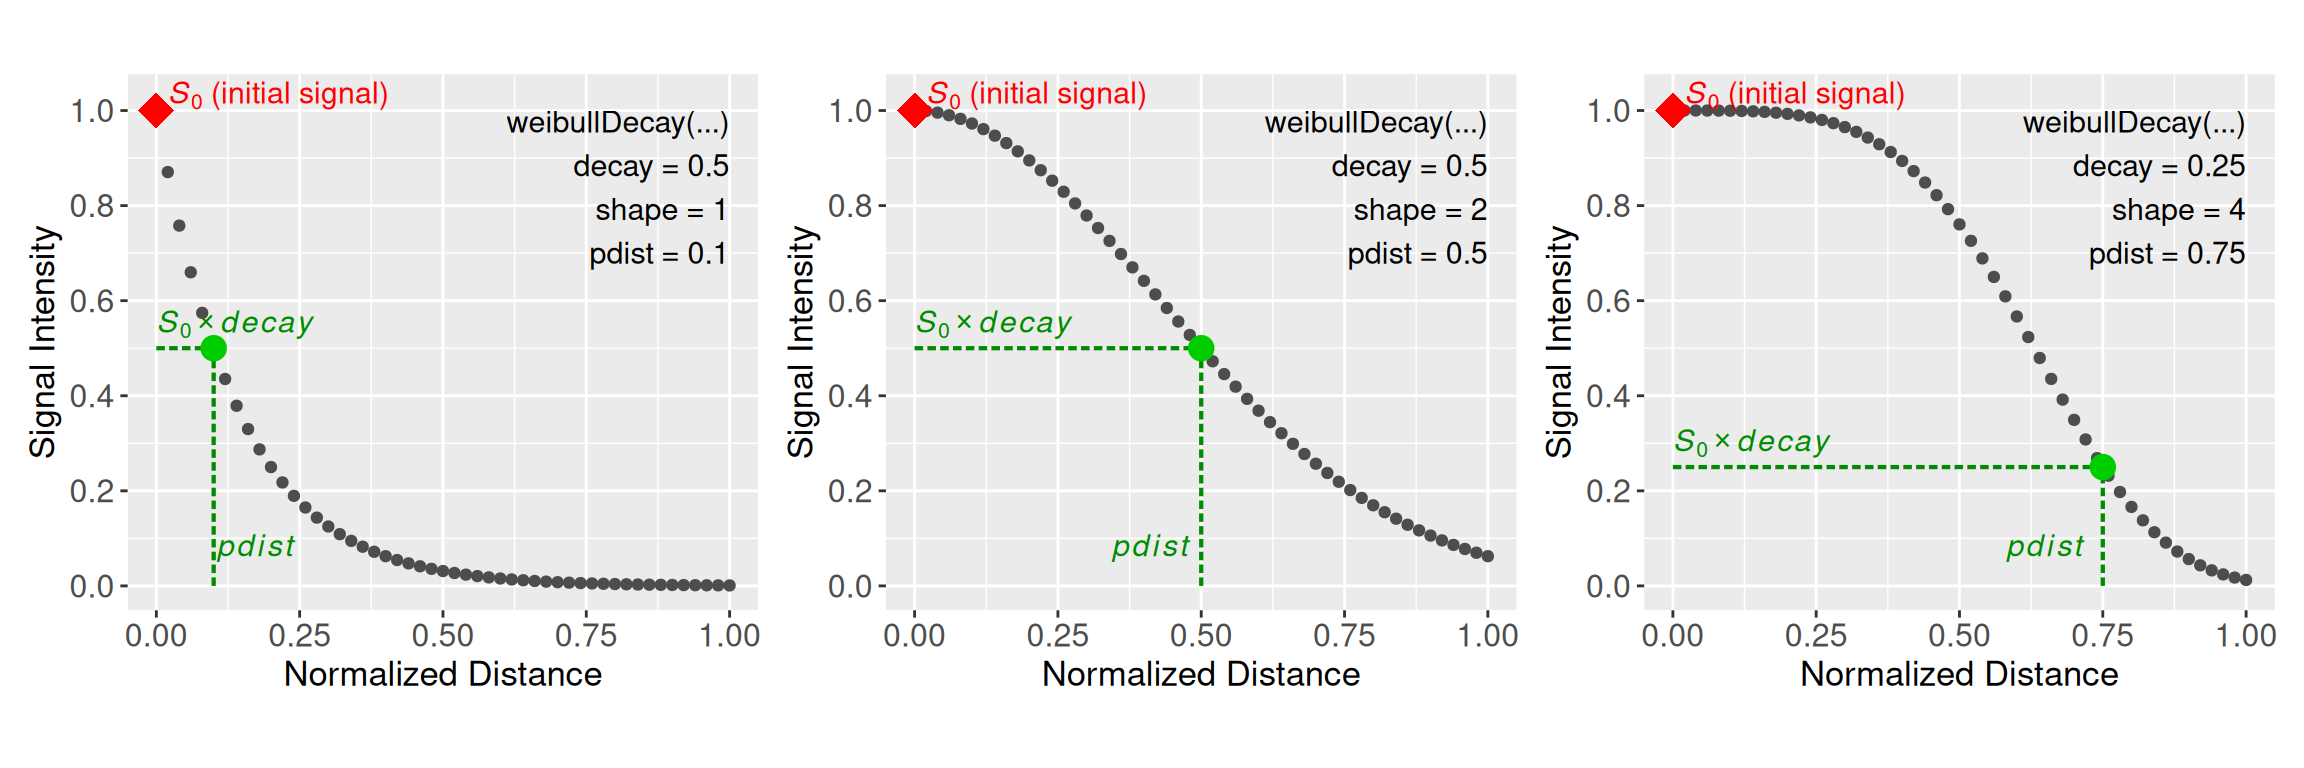
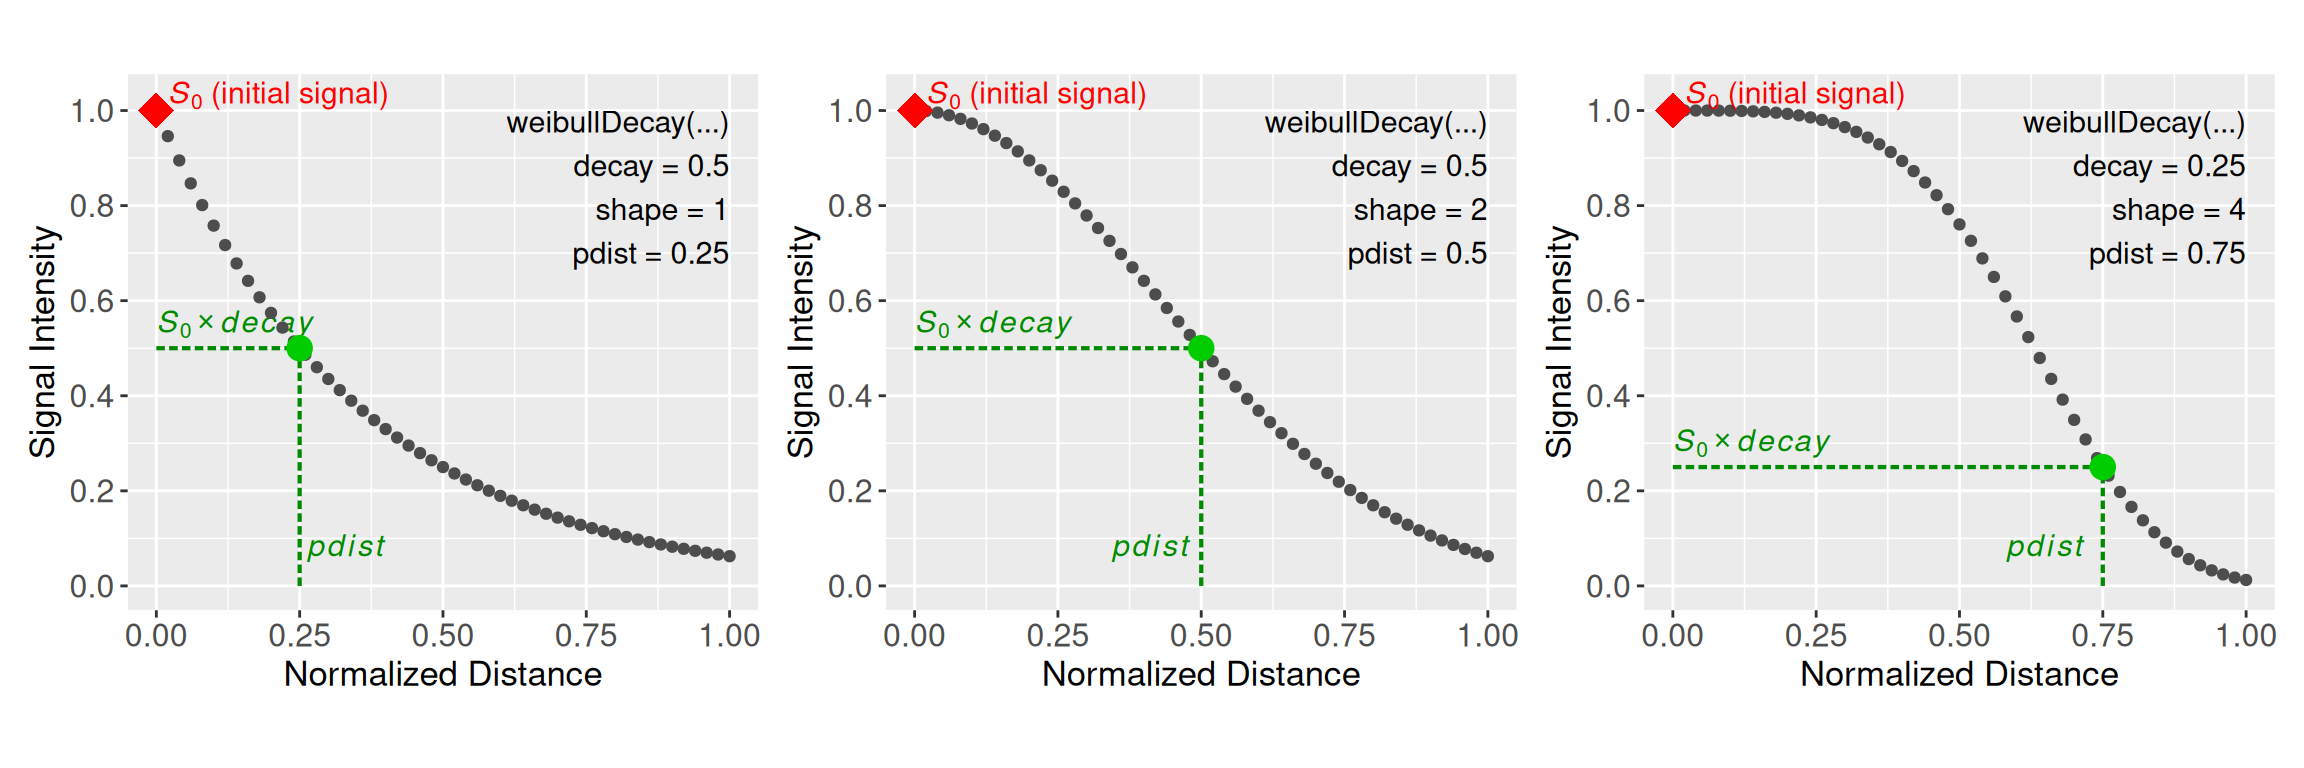
regular maintenance

diff --git a/modeling-signal-decay.html b/modeling-signal-decay.html
@@ -415,46 +415,59 @@ how a signal decreases as a function of distance, modeling the gradual
 loss of intensity. These functions are used to attenuate signals over
 graph-based domains, so contributions from distant vertices are weighted
 less than those nearby. <em>PathwaySpace</em> provides three built-in
-decay function constructors, <code>linearDecay()</code>,
-<code>expDecay()</code>, and <code>weibullDecay()</code>, all sharing a
+decay function constructors, <code>weibullDecay()</code>,
+<code>expDecay()</code>, and <code>linearDecay()</code>, all sharing a
 consistent argument structure for ease use and comparison:</p>
 <p><span class="math display">\[
-\begin{aligned}
-y &amp;= signal \times \Bigl(1 - (1 - decay) \times
-\tfrac{x}{\text{pdist}}\Bigr) &amp;&amp; (\text{Linear}) \\[10pt]
-y &amp;= signal \times decay^{\left(\tfrac{x}{\text{pdist}}\right)}
-&amp;&amp; (\text{Exponential}) \\[14pt]
-y &amp;= signal \times
-decay^{\left(\tfrac{x}{\text{pdist}}\right)^{\text{shape}}} &amp;&amp;
-(\text{Weibull})
-\end{aligned}
-\]</span> where <span class="math inline">\(\boldsymbol{signal}\)</span>
-represents the initial intensity, <span
-class="math inline">\(\boldsymbol{decay}\)</span> controls the rate of
-attenuation, <span class="math inline">\(\boldsymbol{x}\)</span> is a
-vector of normalized distances, <span
-class="math inline">\(\boldsymbol{shape}\)</span> adjusts the curvature
-of the decay, <span class="math inline">\(\boldsymbol{pdist}\)</span> is
-a normalization term, and <span
-class="math inline">\(\boldsymbol{y}\)</span> is the resulting signal
-decay values. Next, the main arguments are illustrated using the
-<code>weibullDecay()</code> constructor, which returns a decay function
-with customized parameters.</p>
+\begin{gather}
+\small
+y = signal \times
+\text{decay}^{\left(\tfrac{x}{\text{pdist}}\right)^{\text{shape}}}
+&amp;&amp; \scriptsize{(\text{Weibull})}
+\end{gather}
+\]</span> <span class="math display">\[
+\begin{gather}
+\small
+y = signal \times \text{decay}^{\left(\tfrac{x}{\text{pdist}}\right)}
+&amp;&amp; \scriptsize{(\text{Exponential})}
+\end{gather}
+\]</span></p>
+<p><span class="math display">\[
+\begin{gather}
+\small
+y = signal \times \Bigl(1 - (1 - \text{decay}) \times
+\tfrac{x}{\text{pdist}}\Bigr) \ |
+\ y \cdot \mathrm{sgn}(signal) \ge 0 &amp; \scriptsize{(\text{Linear*})}
+\\
+\end{gather} \\[10pt]
+\scriptstyle\text{*output clipped to prevent flipping sign}
+\]</span></p>
+<p>where <span class="math inline">\(\textbf{signal}\)</span> represents
+the initial intensity, <span
+class="math inline">\(\textbf{decay}\)</span> controls the rate of
+attenuation, <span class="math inline">\(\textbf{x}\)</span> is a vector
+of normalized distances, <span
+class="math inline">\(\textbf{shape}\)</span> adjusts the curvature of
+the decay, <span class="math inline">\(\textbf{pdist}\)</span> is a
+normalization term, and <span class="math inline">\(\textbf{y}\)</span>
+is the resulting signal decay values. Next, the main arguments are
+illustrated using the <code>weibullDecay()</code> constructor, which
+returns a decay function with customized parameters.</p>
 <pre class="r"><code>weibullDecay(decay = 0.25, shape = 2, pdist = 0.75)</code></pre>
 <pre><code>## function (x, signal) 
 ## {
 ##     y &lt;- signal * 0.25^((x/0.75)^2)
 ##     return(y)
 ## }
-## &lt;environment: 0x5b1470282850&gt;
+## &lt;environment: 0x63cb61fc9df0&gt;
 ## attr(,&quot;name&quot;)
 ## [1] &quot;weibullDecay&quot;</code></pre>
 <p></br></p>
 <p>… and to visualize how different parameters affect the signal
 attenuation, rerun the <code>weibullDecay()</code> constructor with
 <code>plot = TRUE</code>.</p>
-<pre class="r"><code># Run Weibull constructor with decay = 0.5, shape = 1, and pdist = 0.2
-p1 &lt;- weibullDecay(decay = 0.5, shape = 1, pdist = 0.1, plot = TRUE)
+<pre class="r"><code># Run Weibull constructor with decay = 0.5, shape = 1, and pdist = 0.25
+p1 &lt;- weibullDecay(decay = 0.5, shape = 1, pdist = 0.25, plot = TRUE)
 
 # Run Weibull constructor with decay = 0.5, shape = 2, and pdist = 0.50
 p2 &lt;- weibullDecay(decay = 0.5, shape = 2, pdist = 0.50, plot = TRUE)
@@ -465,16 +478,17 @@ p3 &lt;- weibullDecay(decay = 0.25, shape = 4, pdist = 0.75, plot = TRUE)
 p1 + p2 + p3</code></pre>
 <p><img src="modeling-signal-decay_files/figure-html/Creating%20a%20decay%20function%20-%204.2-1.png" width="100%" /></p>
 <p>Note that the normalization term <span
-class="math inline">\(\boldsymbol{pdist}\)</span> anchors the decay to a
+class="math inline">\(\textbf{pdist}\)</span> anchors the decay to a
 reference distance where the initial signal <span
 class="math inline">\(S_0\)</span> decreases to <span
-class="math inline">\(S_0 * decay\)</span>, controlling the extent over
-which the signal is projected along x-axis. The <span
-class="math inline">\(\boldsymbol{shape}\)</span> parameter, on the
-other hand, controls the curvature of the decay function: When
-<code>shape = 1</code>, the function follows an exponential decay; and
-for <code>shape &gt; 1</code>, the curve transitions from convex to
-concave, increasingly sigmoidal.</p>
+class="math inline">\(S_0 * \textbf{decay}\)</span>, controlling the
+extent over which the signal is projected along the x-axis. The <span
+class="math inline">\(\textbf{shape}\)</span> parameter, on the other
+hand, controls the curvature of the decay function: When <span
+class="math inline">\(\textbf{shape} = 1\)</span>, the function follows
+an exponential decay; and for <span class="math inline">\(\textbf{shape}
+&gt; 1\)</span>, the curve transitions from convex to concave,
+increasingly sigmoidal.</p>
 </div>
 <div id="assigning-decay-to-vertices" class="section level1">
 <h1>Assigning decay to vertices</h1>
@@ -501,7 +515,7 @@ set.seed(10)
 vertexSignal(ps) &lt;- sample(c(0,1), gs_vcount(ps), replace = TRUE)</code></pre>
 <pre class="r"><code># Running and plotting projections
 ps &lt;- circularProjection(ps, k = 1)
-plotPathwaySpace(ps)</code></pre>
+plotPathwaySpace(ps, marks = &quot;n34&quot;)</code></pre>
 <p><img src="modeling-signal-decay_files/figure-html/Running%20PathwaySpace%20-%202-1.png" width="672" /></p>
 <p>By assigning a new decay model to specific vertices, we can explore
 how signals propagate across the network under different rules. To
